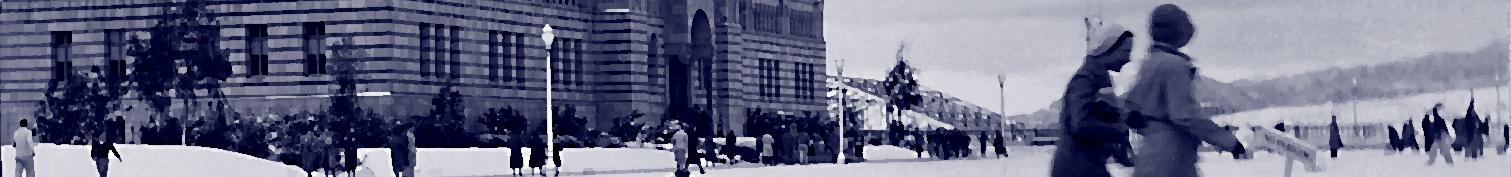
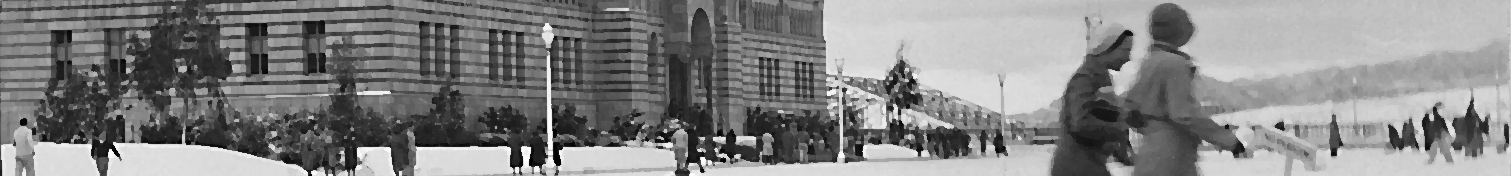
changed menu, footer buttons to yellow. changed image to black and white

diff --git a/_sass/_01_settings_colors.scss b/_sass/_01_settings_colors.scss
@@ -39,9 +39,9 @@ $ci-6: #A1D044;     // green
 ------------------------------------------------------------------- */
 
 $primary-color: $ci-1;
-$secondary-color: $ci-6;
+$secondary-color: $ci-3;
 $alert-color: $ci-5;
-$success-color: $ci-6;
+$success-color: $ci-3;
 $warning-color: $ci-4;
 $info-color: $ci-1;
 
@@ -83,24 +83,24 @@ $topbar-link-color-hover: #000;
 $topbar-link-color-active: #000;
 $topbar-link-color-active-hover: #000;
 
-$topbar-dropdown-label-color: $ci-2;
-$topbar-dropdown-link-bg-hover: $ci-6;
+$topbar-dropdown-label-color: $ci-3;
+$topbar-dropdown-link-bg-hover: $ci-3;
 
-$topbar-link-bg-active: $ci-6; // Active Navigation Link
-$topbar-link-bg-hover: $ci-6;
-$topbar-link-bg-active-hover: $ci-2;
+$topbar-link-bg-active: $ci-3; // Active Navigation Link
+$topbar-link-bg-hover: $ci-3;
+$topbar-link-bg-active-hover: $ci-3;
 
 
-$topbar-dropdown-bg: $ci-6; // Background Mobile Navigation
+$topbar-dropdown-bg: $ci-3; // Background Mobile Navigation
 $topbar-dropdown-link-color: #000;
-$topbar-dropdown-link-bg: $ci-2;
+$topbar-dropdown-link-bg: $ci-3;
 
 $topbar-menu-link-color-toggled: $ci-1;
 $topbar-menu-icon-color-toggled: $ci-1;
 $topbar-menu-link-color: #000;
 $topbar-menu-icon-color: #000;
-$topbar-menu-link-color-toggled: $ci-6;
-$topbar-menu-icon-color-toggled: $ci-6;
+$topbar-menu-link-color-toggled: $ci-3;
+$topbar-menu-icon-color-toggled: $ci-3;
 
 
 
@@ -109,7 +109,7 @@ $topbar-menu-icon-color-toggled: $ci-6;
 
 $footer-bg: $grey-8;
 $footer-color: #fff;
-$footer-link-color: $ci-6;
+$footer-link-color: $ci-3;
 
 
 $subfooter-bg: $grey-13;

diff --git a/_sass/_04_settings_global.scss b/_sass/_04_settings_global.scss
@@ -1384,10 +1384,10 @@ $topbar-title-font-size: rem-calc(19);
 // Style the top bar dropdown elements
 // $topbar-dropdown-bg: $oil;
 // $topbar-dropdown-link-color: $white;
-// $topbar-dropdown-link-bg: $ci-2;
+// $topbar-dropdown-link-bg: $ci-3;
 // $topbar-dropdown-link-weight: $font-weight-normal;
 // $topbar-dropdown-toggle-size: 5px;
-// $topbar-dropdown-toggle-color: $ci-2;
+// $topbar-dropdown-toggle-color: $ci-3;
 // $topbar-dropdown-toggle-alpha: 0.4;
 
 // Set the link colors and styles for top-level nav
@@ -1424,8 +1424,8 @@ $topbar-menu-link-transform: uppercase;
 // $topbar-menu-link-weight: $font-weight-bold;
 // $topbar-menu-link-color: $white;
 // $topbar-menu-icon-color: $white;
-// $topbar-menu-link-color-toggled: $ci-6;
-// $topbar-menu-icon-color-toggled: $ci-6;
+// $topbar-menu-link-color-toggled: $ci-3;
+// $topbar-menu-icon-color-toggled: $ci-3;
 
 // Transitions and breakpoint styles
 // $topbar-transition-speed: 300ms;
